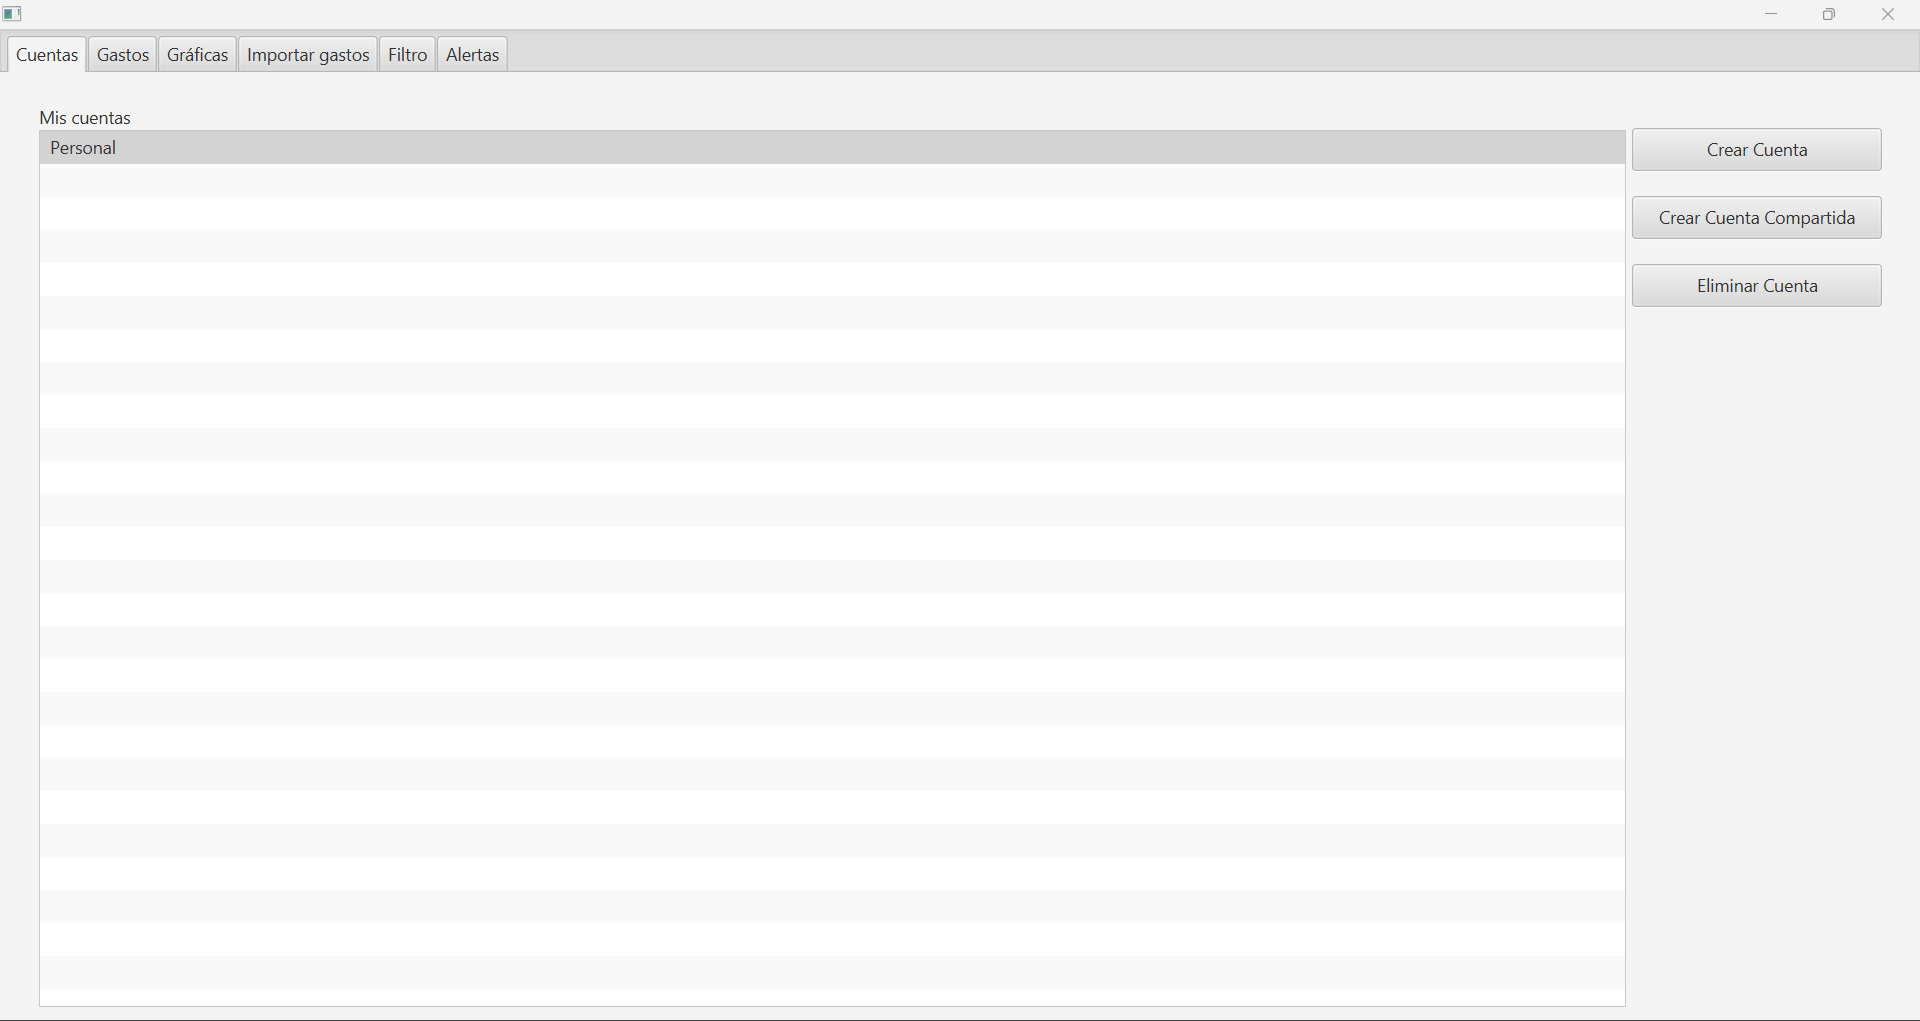
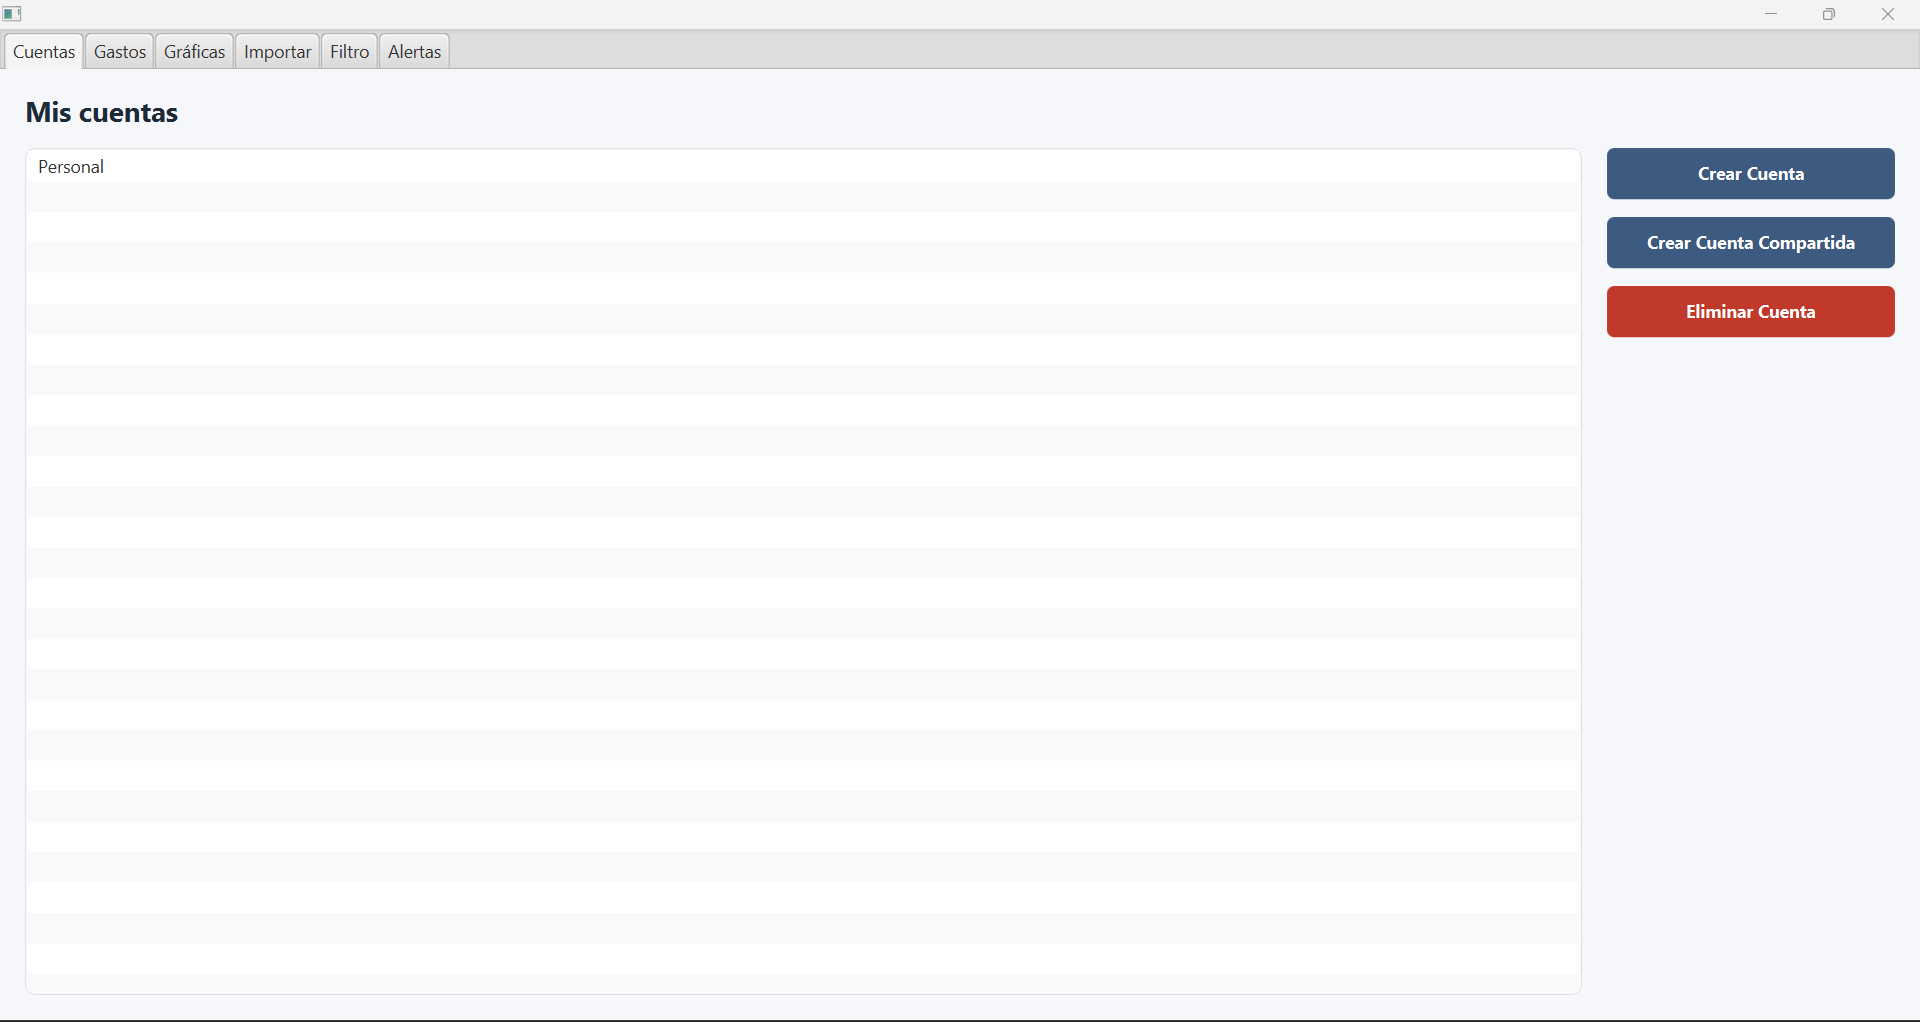
Actualizar manual

Changed region(s): [[0.0, 0.0304, 1.0, 0.334], [0.0, 0.9716, 0.8438, 1.0]]

diff --git a/GestionDeGastos/docs/ManualDeUsuario.md b/GestionDeGastos/docs/ManualDeUsuario.md
@@ -2,6 +2,14 @@
 
 ## Inicio
 
+![inicio2](imagenes/inicio2.png)
+
+**Descripción:** Al iniciar la aplicacion nos encontramos con un botón para entrar en ella.
+
+---
+
+## Gestion de Cuentas
+
 ![inicio](imagenes/inicio.png)
 
 **Descripción:** Al iniciar la app nos encontramos con la selección de cuentas, con una cuenta personal llamada "Personal" está creada por defecto, esta interfaz nos permite realizar 3 operaciones básicas: Crear Cuenta, sirve para crear una cuenta personal escribiendo el nombre de la cuenta, Crear Cuenta Compartida, permite crear una cuenta compartida poniendo nombre a la cuenta y nombres de las personas en ella teniendo la opción de añadir varias personas y si se produce un gasto equitativo o por el contrario porcentual escribiendo el usuario los porcentajes de cada persona, por último Eliminar Cuenta permite eliminar una cuenta seleccionada pidiendo confirmación, si no hay ninguna cuenta seleccionada resultara en un aviso de error.